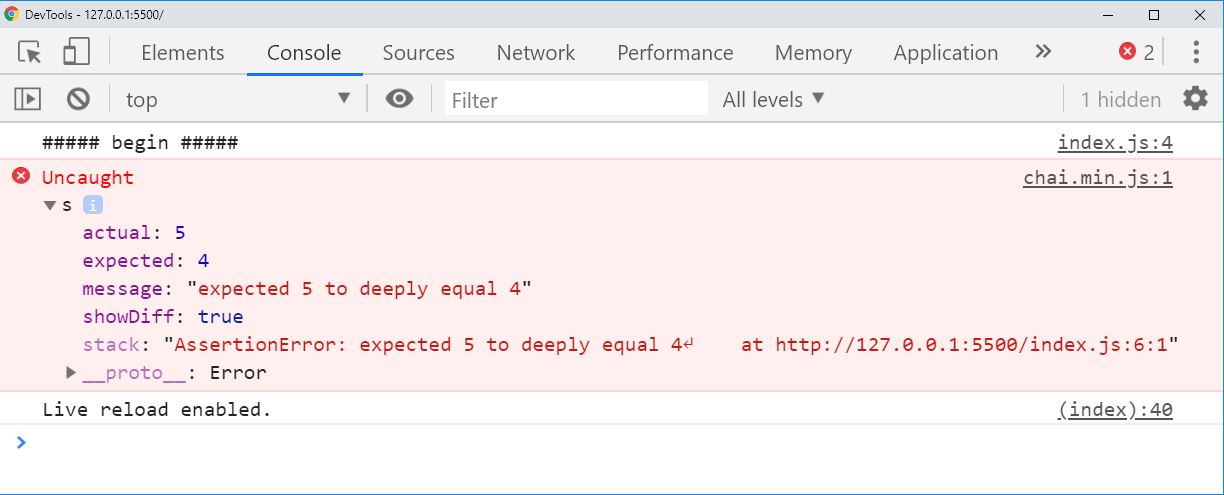
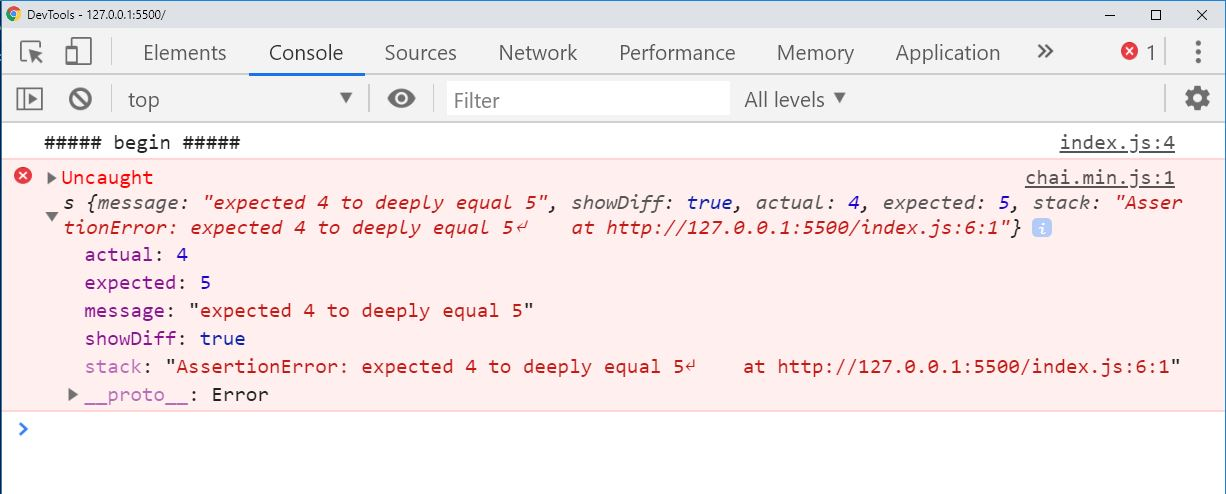
x

diff --git a/001-whatever/index.js b/001-whatever/index.js
@@ -3,5 +3,5 @@ const range = _.range
 const print = console.log
 print('##### begin #####')
 assert(range(5), [0,1,2,3,4])
-assert(5,4)
+assert(4,5)
 print('#####  end  #####')
